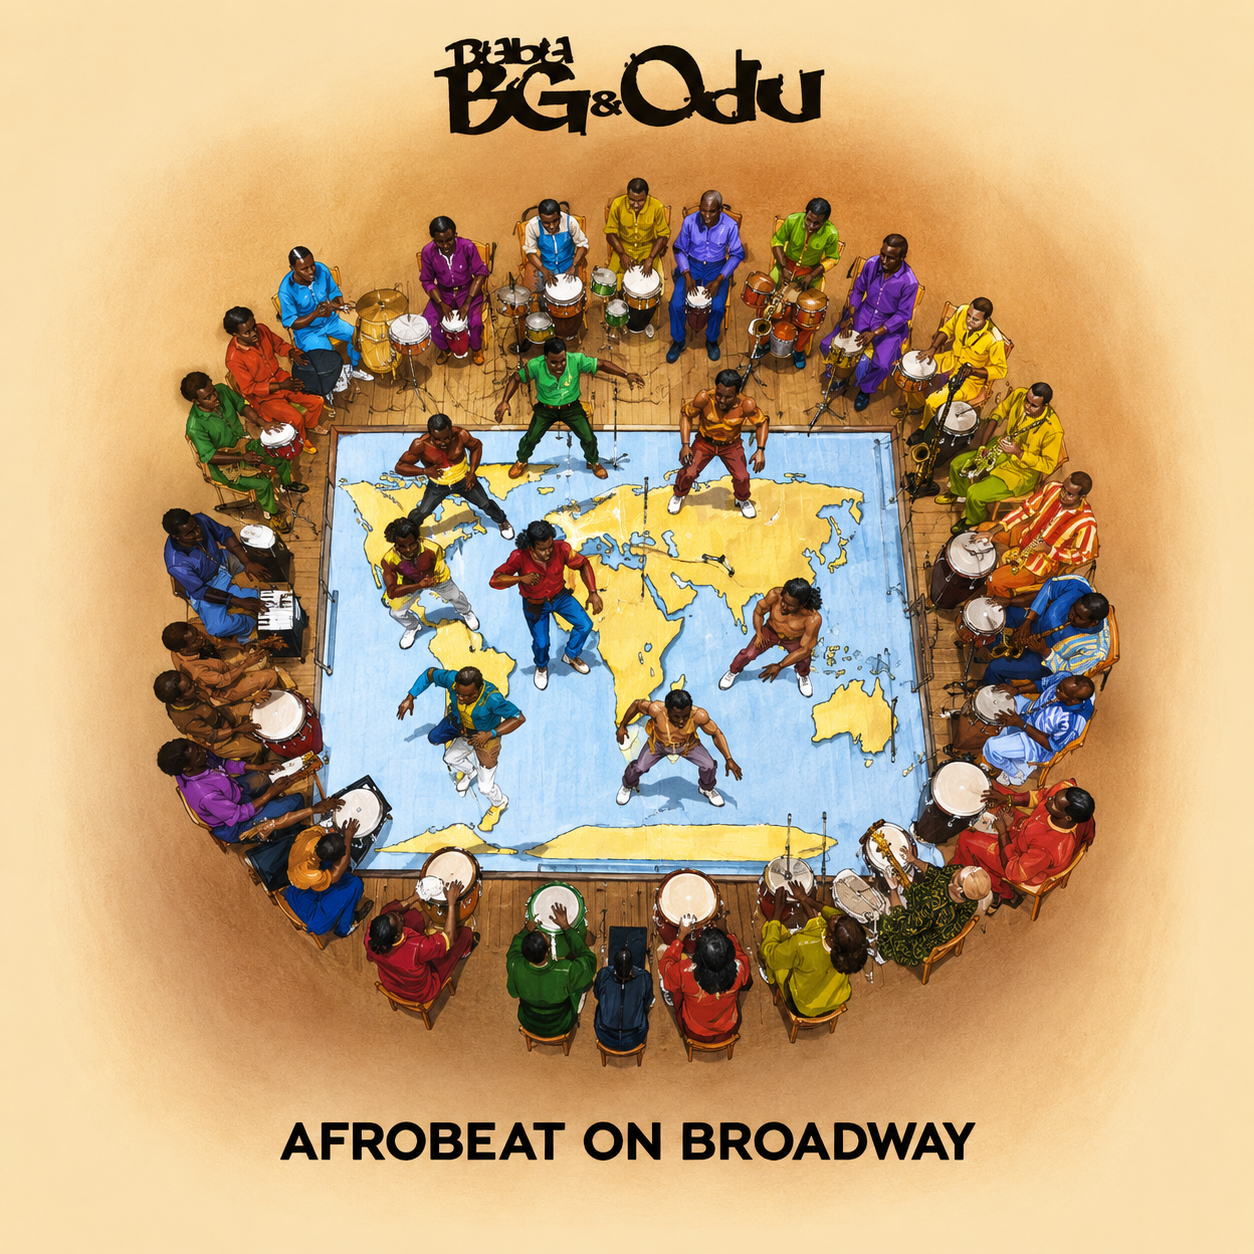
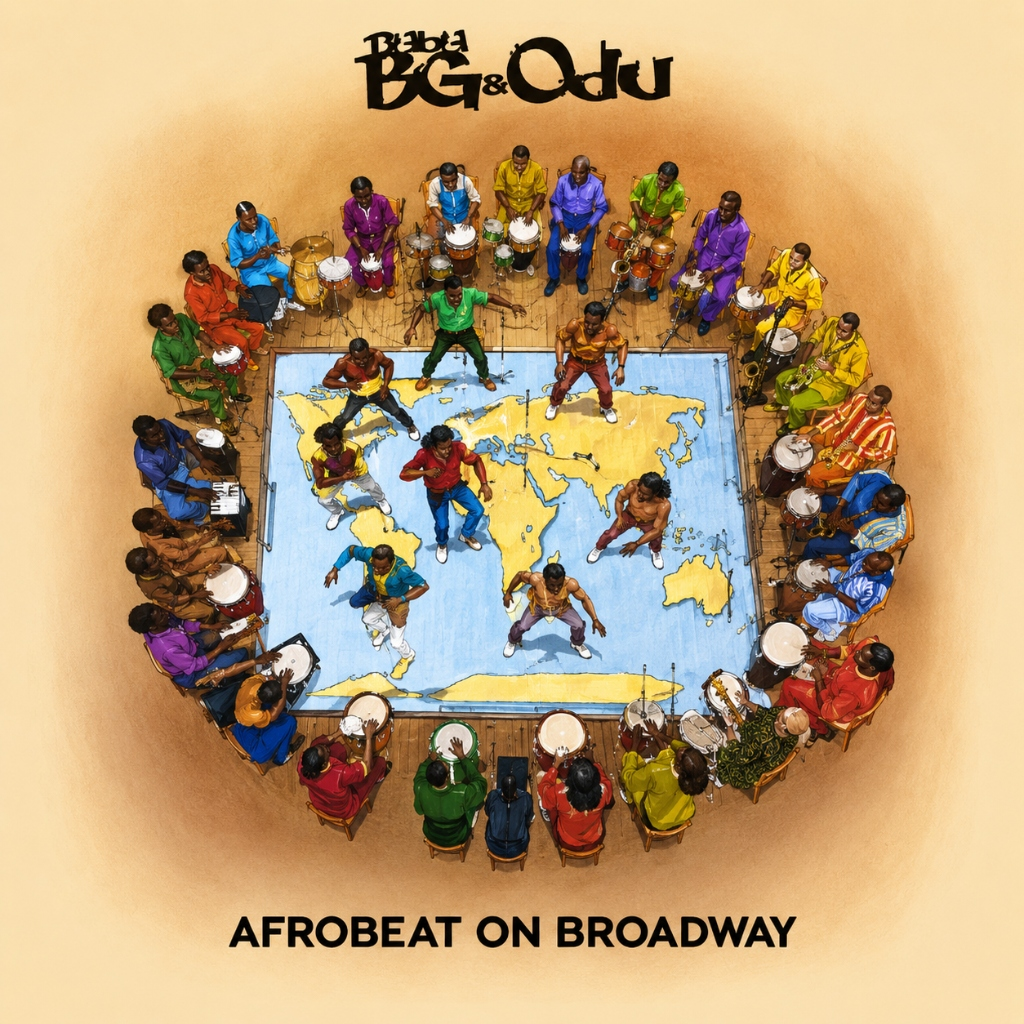
Update discography and audio player with correct covers for FIFA Referee and Afrobeat on Broadway

Changed region(s): [[0.8438, 0.5, 0.875, 0.5312], [0.6562, 0.4062, 0.6875, 0.4375], [0.375, 0.5312, 0.4062, 0.5625]]

diff --git a/index.html b/index.html
@@ -265,7 +265,7 @@
                         <div class="flex items-center gap-6"><span class="font-sans text-[10px] font-bold text-primary opacity-60 group-hover:opacity-100">02</span><h4 class="font-display text-xl text-secondary font-medium group-hover:text-primary transition-colors italic">Asa</h4></div><span class="font-sans text-[10px] font-bold text-on-surface-variant group-hover:text-on-surface transition-colors">03:52</span>
                     </div>
                     <div class="track-row flex items-center justify-between py-5 border-b border-outline-variant/20 group hover:border-primary cursor-pointer transition-colors" data-track-index="2">
-                        <div class="flex items-center gap-6"><span class="font-sans text-[10px] font-bold text-primary opacity-60 group-hover:opacity-100">03</span><h4 class="font-display text-xl text-secondary font-medium group-hover:text-primary transition-colors italic">Udo Afrobeat</h4></div><span class="font-sans text-[10px] font-bold text-on-surface-variant group-hover:text-on-surface transition-colors">05:10</span>
+                        <div class="flex items-center gap-6"><span class="font-sans text-[10px] font-bold text-primary opacity-60 group-hover:opacity-100">03</span><h4 class="font-display text-xl text-secondary font-medium group-hover:text-primary transition-colors italic">Afrobeat on Broadway</h4></div><span class="font-sans text-[10px] font-bold text-on-surface-variant group-hover:text-on-surface transition-colors">05:10</span>
                     </div>
                   <div class="pt-8">
                     <button class="nav-item flex items-center gap-4 text-primary font-sans text-[10px] font-bold uppercase tracking-[0.4em] hover:text-secondary transition-colors cursor-pointer group" data-view="music">
@@ -354,7 +354,19 @@
             </div>
             <div class="border border-outline-variant/40 p-8">
                 <img src="single-1.png" class="w-full mb-6">
+                <h3 class="font-display text-3xl mb-2 text-secondary">Asa</h3>
+                <p class="text-on-surface-variant font-sans mb-4 text-xs font-bold uppercase tracking-widest">Single • 2023</p>
+                <button class="bg-primary px-6 py-2 text-on-primary font-bold uppercase tracking-[0.2em] text-[10px]">Stream Single</button>
+            </div>
+            <div class="border border-outline-variant/40 p-8">
+                <img src="single-2.png" class="w-full mb-6">
                 <h3 class="font-display text-3xl mb-2 text-secondary">FIFA Referee</h3>
+                <p class="text-on-surface-variant font-sans mb-4 text-xs font-bold uppercase tracking-widest">Single • 2023</p>
+                <button class="bg-primary px-6 py-2 text-on-primary font-bold uppercase tracking-[0.2em] text-[10px]">Stream Single</button>
+            </div>
+            <div class="border border-outline-variant/40 p-8">
+                <img src="single-3.png" class="w-full mb-6">
+                <h3 class="font-display text-3xl mb-2 text-secondary">Afrobeat on Broadway</h3>
                 <p class="text-on-surface-variant font-sans mb-4 text-xs font-bold uppercase tracking-widest">Single • 2023</p>
                 <button class="bg-primary px-6 py-2 text-on-primary font-bold uppercase tracking-[0.2em] text-[10px]">Stream Single</button>
             </div>
@@ -989,7 +1001,7 @@
     <div class="max-w-container-max mx-auto px-margin-mobile md:px-gutter h-full flex items-center justify-between">
       <div class="flex items-center gap-4 w-1/4 sm:w-1/3">
         <div class="w-12 h-12 bg-surface-container rounded-sm overflow-hidden flex-shrink-0 border border-on-secondary/10">
-           <img id="track-img" src="single-1.png" alt="Track Artwork" class="w-full h-full object-cover" />
+           <img id="track-img" src="single-2.png" alt="Track Artwork" class="w-full h-full object-cover" />
         </div>
         <div class="hidden sm:block truncate">
           <p id="track-title" class="font-display italic text-sm truncate">FIFA Referee</p>
@@ -1084,9 +1096,9 @@
 
         // Audio player logic
         const tracks = [
-            { title: 'FIFA Referee', artist: 'Baba BG & Odu', img: 'single-1.png', src: 'fifa-snippet.wav' },
-            { title: 'Asa', artist: 'Baba BG & Odu', img: 'single-2.png', src: 'asa-snippet.wav' },
-            { title: 'Udo Afrobeat', artist: 'Baba BG & Odu', img: 'single-3.png', src: 'afrobeat-snippet.wav' }
+            { title: 'FIFA Referee', artist: 'Baba BG & Odu', img: 'single-2.png', src: 'fifa-snippet.wav' },
+            { title: 'Asa', artist: 'Baba BG & Odu', img: 'single-1.png', src: 'asa-snippet.wav' },
+            { title: 'Afrobeat on Broadway', artist: 'Baba BG & Odu', img: 'single-3.png', src: 'afrobeat-snippet.wav' }
         ];
         let currentTrack = 0;
         let fadeInterval = null;